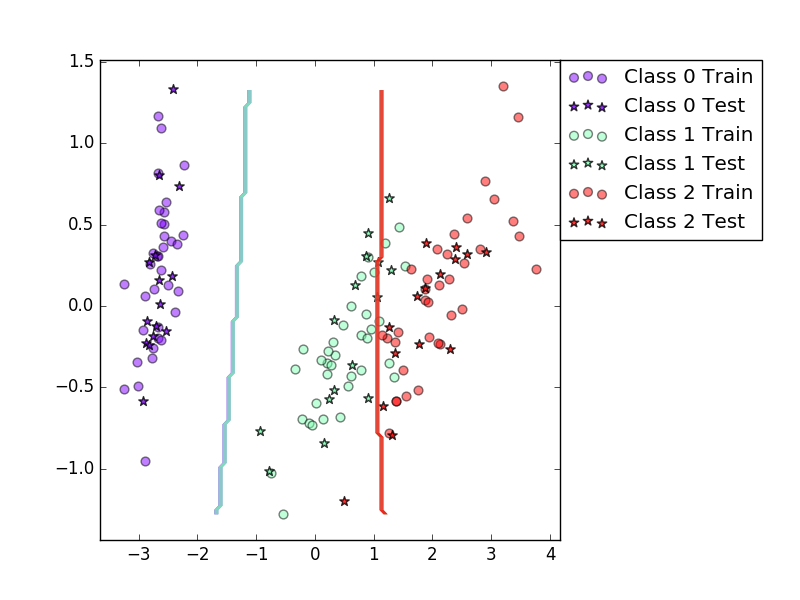
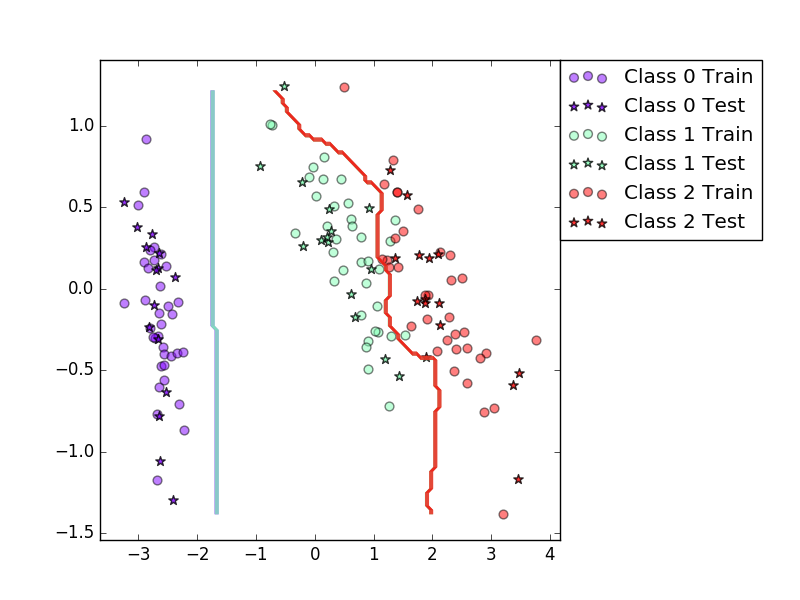
Correct test, we have to finish the questions.

diff --git a/lab3.py b/lab3.py
@@ -4,15 +4,15 @@
 # # Lab 3: Bayes Classifier and Boosting
 
 # ## Jupyter notebooks
-# 
+#
 # In this lab, you can use Jupyter <https://jupyter.org/> to get a nice layout of your code and plots in one document. However, you may also use Python as usual, without Jupyter.
-# 
+#
 # If you have Python and pip, you can install Jupyter with `sudo pip install jupyter`. Otherwise you can follow the instruction on <http://jupyter.readthedocs.org/en/latest/install.html>.
-# 
+#
 # And that is everything you need! Now use a terminal to go into the folder with the provided lab files. Then run `jupyter notebook` to start a session in that folder. Click `lab3.ipynb` in the browser window that appeared to start this very notebook. You should click on the cells in order and either press `ctrl+enter` or `run cell` in the toolbar above to evaluate all the expressions.
 
 # ## Import the libraries
-# 
+#
 # In Jupyter, select the cell below and press `ctrl + enter` to import the needed libraries.
 # Check out `labfuns.py` if you are interested in the details.
 
@@ -25,7 +25,7 @@ import math
 
 
 # ## Bayes classifier functions to implement
-# 
+#
 # The lab descriptions state what each function should do.
 
 
@@ -51,7 +51,7 @@ def computePrior(labels, W=None):
                 prior[j]+=W[i]
 
 
-    #print "Prior : ", prior   
+    #print "Prior : ", prior
     # ==========================
 
     return prior
@@ -67,7 +67,7 @@ def mlParams(X, labels, W=None):
     classes = np.unique(labels)
     Nclasses = np.size(classes)
     Nk = np.zeros((Nclasses,1))#Nb in each class (when not weighted)
-    
+
     if W is None:#Set to one all the weight if no indication
         W = np.ones((Npts,1))/float(Npts)
 
@@ -85,25 +85,25 @@ def mlParams(X, labels, W=None):
                 Nk[j]+=W[i]#Nb of data in each class
                 for k in range(Ndims):#For each features
                     mu[j,k]+=W[i]*X[i,k]
-                    
+
     #Divide by Nk to compute the mean
     for j in range(Nclasses):
         for k in range(Ndims):
-            mu[j,k]=mu[j,k]/Nk[j]  
-    
+            mu[j,k]=mu[j,k]/Nk[j]
+
     #Computation of the covariance matrix
     for i in range(Npts):#Go through all points N
         for j in range(Nclasses):#Check for all classes Nc
             if labels[i]==classes[j]:#Find the class corresponding to the label
                 for k in range(Ndims):#For each features f
                     sigma[j,k,k]+=W[i]*(X[i,k]-mu[j,k])**2
-  
+
     #Divide by Nk to compute the variance
     for j in range(Nclasses):
         for k in range(Ndims):
             sigma[j,k,k]=sigma[j,k,k]/Nk[j]
 
-    #print "Mean :", mu            
+    #print "Mean :", mu
     #print "Sigma :", sigma
     #print "Nk : ", Nk
     # ==========================
@@ -127,19 +127,20 @@ def classifyBayes(X, prior, mu, sigma):
         for i in range(Npts):#Through all the points
             middleTerm = 0.0
             for k in range(Ndims): #Compute for each features, x²*Sigma
-                middleTerm+=(((X[i,k]-mu[j,k])**2)*sigma[j,k,k]) ##
+                middleTerm+=(((X[i,k]-mu[j,k])**2)/sigma[j,k,k]) ##
             logProb[j,i]=(-0.5*math.log(np.linalg.norm(sigma[j]))) \
                           +(-0.5*middleTerm) \
                           +(math.log(prior[j]))
-            
+
     #print "log Posterior : ", logProb
 
     # ==========================
-    
+
     # one possible way of finding max a-posteriori once
     # you have computed the log posterior
     h = np.argmax(logProb,axis=0)
     return h
+
 
 
 # The implemented functions can now be summarized into the `BayesClassifier` class, which we will use later to test the classifier, no need to add anything else here:
@@ -162,7 +163,7 @@ class BayesClassifier(object):
 
 
 # ## Test the Maximum Likelihood estimates
-# 
+#
 # Call `genBlobs` and `plotGaussian` to verify your estimates.
 
 
@@ -170,7 +171,7 @@ X, labels = genBlobs(centers=5)
 mu, sigma = mlParams(X,labels)
 #plotGaussian(X,labels,mu,sigma)
 prior = computePrior(labels)
-#print classifyBayes(X, prior, mu, sigma)
+print classifyBayes(X, prior, mu, sigma)
 #print labels
 # Call the `testClassifier` and `plotBoundary` functions for this part.
 
@@ -178,16 +179,11 @@ prior = computePrior(labels)
 #testClassifier(BayesClassifier(), dataset='iris', split=0.7)
 
 
-
-#testClassifier(BayesClassifier(), dataset='vowel', split=0.7)
-
-
-
-#plotBoundary(BayesClassifier(), dataset='iris',split=0.7)
+testClassifier(BayesClassifier(), dataset='iris', split=0.7)
 
 
 # ## Boosting functions to implement
-# 
+#
 # The lab descriptions state what each function should do.
 
 
@@ -207,9 +203,9 @@ def trainBoost(base_classifier, X, labels, T=10):
 
     # The weights for the first iteration
     wCur = np.ones((Npts,1))/float(Npts)
-    
+
     for i_iter in range(0, T):
-                
+
         # a new classifier can be trained like this, given the current weights
         classifiers.append(base_classifier.trainClassifier(X, labels, wCur))
 
@@ -218,16 +214,16 @@ def trainBoost(base_classifier, X, labels, T=10):
 
         # TODO: Fill in the rest, construct the alphas etc.
         # ==========================
-        alpha = 0         
-        error = 0        
+        alpha = 0
+        error = 0
         for i in range(Npts):
-   
+
             delta = []
             if vote[i]==labels[i]:
                 delta.append(1)
             else:
                 delta.append(0)
-            
+
             error += wCur[i]*float((1-delta[-1]))
 
 
@@ -235,21 +231,21 @@ def trainBoost(base_classifier, X, labels, T=10):
         alphas.append(alpha) # you will need to append the new alpha
 
         deltas.append(delta)
-        
+
         #Compute weight+1
         for i in range(Npts):
             if vote[i] == labels[i]:
                 wCur[i] = wCur[i] * math.exp(-alpha)
             else:
                 wCur[i] = wCur[i] * math.exp(alpha)
-        
+
         # normalize the weight vector
         sumW = np.sum(wCur)
         for i in range(Npts):
             wCur[i] = wCur[i] / sumW
 
         # ==========================
-        
+
     return classifiers, alphas
 
 #trainBoost(BayesClassifier(), X, labels)
@@ -277,7 +273,8 @@ def classifyBoost(X, classifiers, alphas, Nclasses):
             for j in range(Npts):
                 votes[j,ans[j]]+=alphas[i]
         #print "Boom beach",np.argmax(votes, axis=1)
-            
+
+
         # ==========================
 
         # one way to compute yPred after accumulating the votes
@@ -305,65 +302,36 @@ class BoostClassifier(object):
         return classifyBoost(X, self.classifiers, self.alphas, self.nbr_classes)
 
 
-# ## Run some experiments
-# 
-
-print "Normal"
-testClassifier(BayesClassifier(), dataset='iris', split=0.7)
-
-
-
-#testClassifier(BayesClassifier(), dataset='vowel', split=0.7)
-
-
-
-plotBoundary(BayesClassifier(), dataset='iris',split=0.7)
-
-
+# Run some experiments
+#
 # Call the `testClassifier` and `plotBoundary` functions for this part.
 
-print "Boosted"
-testClassifier(BoostClassifier(BayesClassifier(), T=10), dataset='iris',split=0.7)
+#plotBoundary(BayesClassifier(), dataset='vowel',split=0.7)
+#testClassifier(BayesClassifier(), dataset='vowel', split=0.7)
+#testClassifier(BayesClassifier(), dataset='iris', split=0.7)
 
-
-
-#testClassifier(BoostClassifier(BayesClassifier(), T=10), dataset='vowel',split=0.7)
-
-
+#print "Boost classifier using Bayes classifier"
+#testClassifier(BoostClassifier(BayesClassifier(), T=10), dataset='iris',split=0.7)
+plotBoundary(BayesClassifier(), dataset='iris',split=0.7)
 
 plotBoundary(BoostClassifier(BayesClassifier()), dataset='iris',split=0.7)
-
-
-
-
+#testClassifier(BayesClassifier(), dataset='iris', split=0.7)
+testClassifier(BoostClassifier(BayesClassifier(), T=10), dataset='iris',split=0.7)
+#testClassifier(DecisionTreeClassifier(), dataset='vowel', split=0.7)
 # Now repeat the steps with a decision tree classifier.
 
-
+#print "Decision Tree classifier"
 #testClassifier(DecisionTreeClassifier(), dataset='iris', split=0.7)
+#plotBoundary(DecisionTreeClassifier(), dataset='vowel',split=0.7)
 
-
-
+#print "Boost classifier using Decision Tree classifier"
 #testClassifier(BoostClassifier(DecisionTreeClassifier(), T=10), dataset='iris',split=0.7)
-
-
-
-#testClassifier(DecisionTreeClassifier(), dataset='vowel',split=0.7)
-
-
-
-#testClassifier(BoostClassifier(DecisionTreeClassifier(), T=10), dataset='vowel',split=0.7)
-
-
-
-#plotBoundary(DecisionTreeClassifier(), dataset='iris',split=0.7)
-
-
 
 #plotBoundary(BoostClassifier(DecisionTreeClassifier(), T=10), dataset='iris',split=0.7)
 
 
 # ## Bonus: Visualize faces classified using boosted decision trees
-# 
+#
 # Note that this part of the assignment is completely voluntary! First, let's check how a boosted decision tree classifier performs on the olivetti data. Note that we need to reduce the dimension a bit using PCA, as the original dimension of the image vectors is `64 x 64 = 4096` elements.
 
 
@@ -392,4 +360,3 @@ plotBoundary(BoostClassifier(BayesClassifier()), dataset='iris',split=0.7)
 # visualize the test point together with the training points used to train
 # the class that the test point was classified to belong to
 #visualizeOlivettiVectors(xTr[yTr == yPr[testind],:], xTe[testind,:])
-

diff --git a/labfuns.py b/labfuns.py
@@ -14,7 +14,7 @@ from sklearn import decomposition, tree
 
 def plot_cov_ellipse(cov, pos, nstd=2, ax=None, **kwargs):
     """
-    Plots an `nstd` sigma error ellipse based on the specified covariance
+    Plots an `nstd` sigma error ellipse basednp random seed on the specified covariance
     matrix (`cov`). Additional keyword arguments are passed on to the
     ellipse patch artist.
 
@@ -60,7 +60,7 @@ def trteSplit(X,y,pcSplit,seed=None):
     Ndata = X.shape[0]
     Ntr = int(np.rint(Ndata*pcSplit))
     Nte = Ndata-Ntr
-    np.random.seed(seed)    
+    np.random.seed(seed)
     idx = np.random.permutation(Ndata)
     trIdx = idx[:Ntr]
     teIdx = idx[Ntr:]
@@ -84,6 +84,7 @@ def trteSplitEven(X,y,pcSplit,seed=None):
     yTr = np.zeros((0,),dtype=int)
     trIdx = np.zeros((0,),dtype=int)
     teIdx = np.zeros((0,),dtype=int)
+    #seed = rnd.randint(0, 10000)
     np.random.seed(seed)
     for label in labels:
         classIdx = np.where(y==label)[0]
@@ -122,7 +123,7 @@ def fetchDataset(dataset='iris'):
         y = genfromtxt('vowelY.txt', delimiter=',',dtype=np.int)
         pcadim = 0
     else:
-        print("Please specify a dataset!")
+        print("Please spe1cify a dataset!")
         X = np.zeros(0)
         y = np.zeros(0)
         pcadim = 0
@@ -181,7 +182,7 @@ def testClassifier(classifier, dataset='iris', dim=0, split=0.7, ntrials=100):
 
     for trial in range(ntrials):
 
-        xTr,yTr,xTe,yTe,trIdx,teIdx = trteSplitEven(X,y,split,trial)
+        xTr,yTr,xTe,yTe,trIdx,teIdx = trteSplitEven(X,y,split)
 
         # Do PCA replace default value if user provides it
         if dim > 0:
@@ -214,7 +215,22 @@ def testClassifier(classifier, dataset='iris', dim=0, split=0.7, ntrials=100):
 def plotBoundary(classifier, dataset='iris', split=0.7):
 
     X,y,pcadim = fetchDataset(dataset)
-    xTr,yTr,xTe,yTe,trIdx,teIdx = trteSplitEven(X,y,split,1)
+    """
+    labels = np.unique(y)
+    Ncolors = len(labels)
+    xx = np.arange(Ncolors)
+    ys = [i+xx+(i*xx)**2 for i in range(Ncolors)]
+    colors = cm.rainbow(np.linspace(0, 1, len(ys)))
+    c = 1.0
+    for label in labels:
+        classIdx = y==label
+        Xclass = X[classIdx,:]
+        plt.scatter(Xclass[:,0],Xclass[:,1],linewidths=1,s=40,color=colors[label],marker='o',alpha=0.75)
+        c += 1.
+
+    plt.show()
+    """
+    xTr,yTr,xTe,yTe,trIdx,teIdx = trteSplitEven(X,y,split)
     classes = np.unique(y)
 
     pca = decomposition.PCA(n_components=2)
@@ -239,7 +255,7 @@ def plotBoundary(classifier, dataset='iris', split=0.7):
             # Predict
             grid[yi,xi] = trained_classifier.classify(np.array([[xx, yy]]))
 
-    
+
     ys = [i+xx+(i*xx)**2 for i in range(len(classes))]
     colormap = cm.rainbow(np.linspace(0, 1, len(ys)))
 
